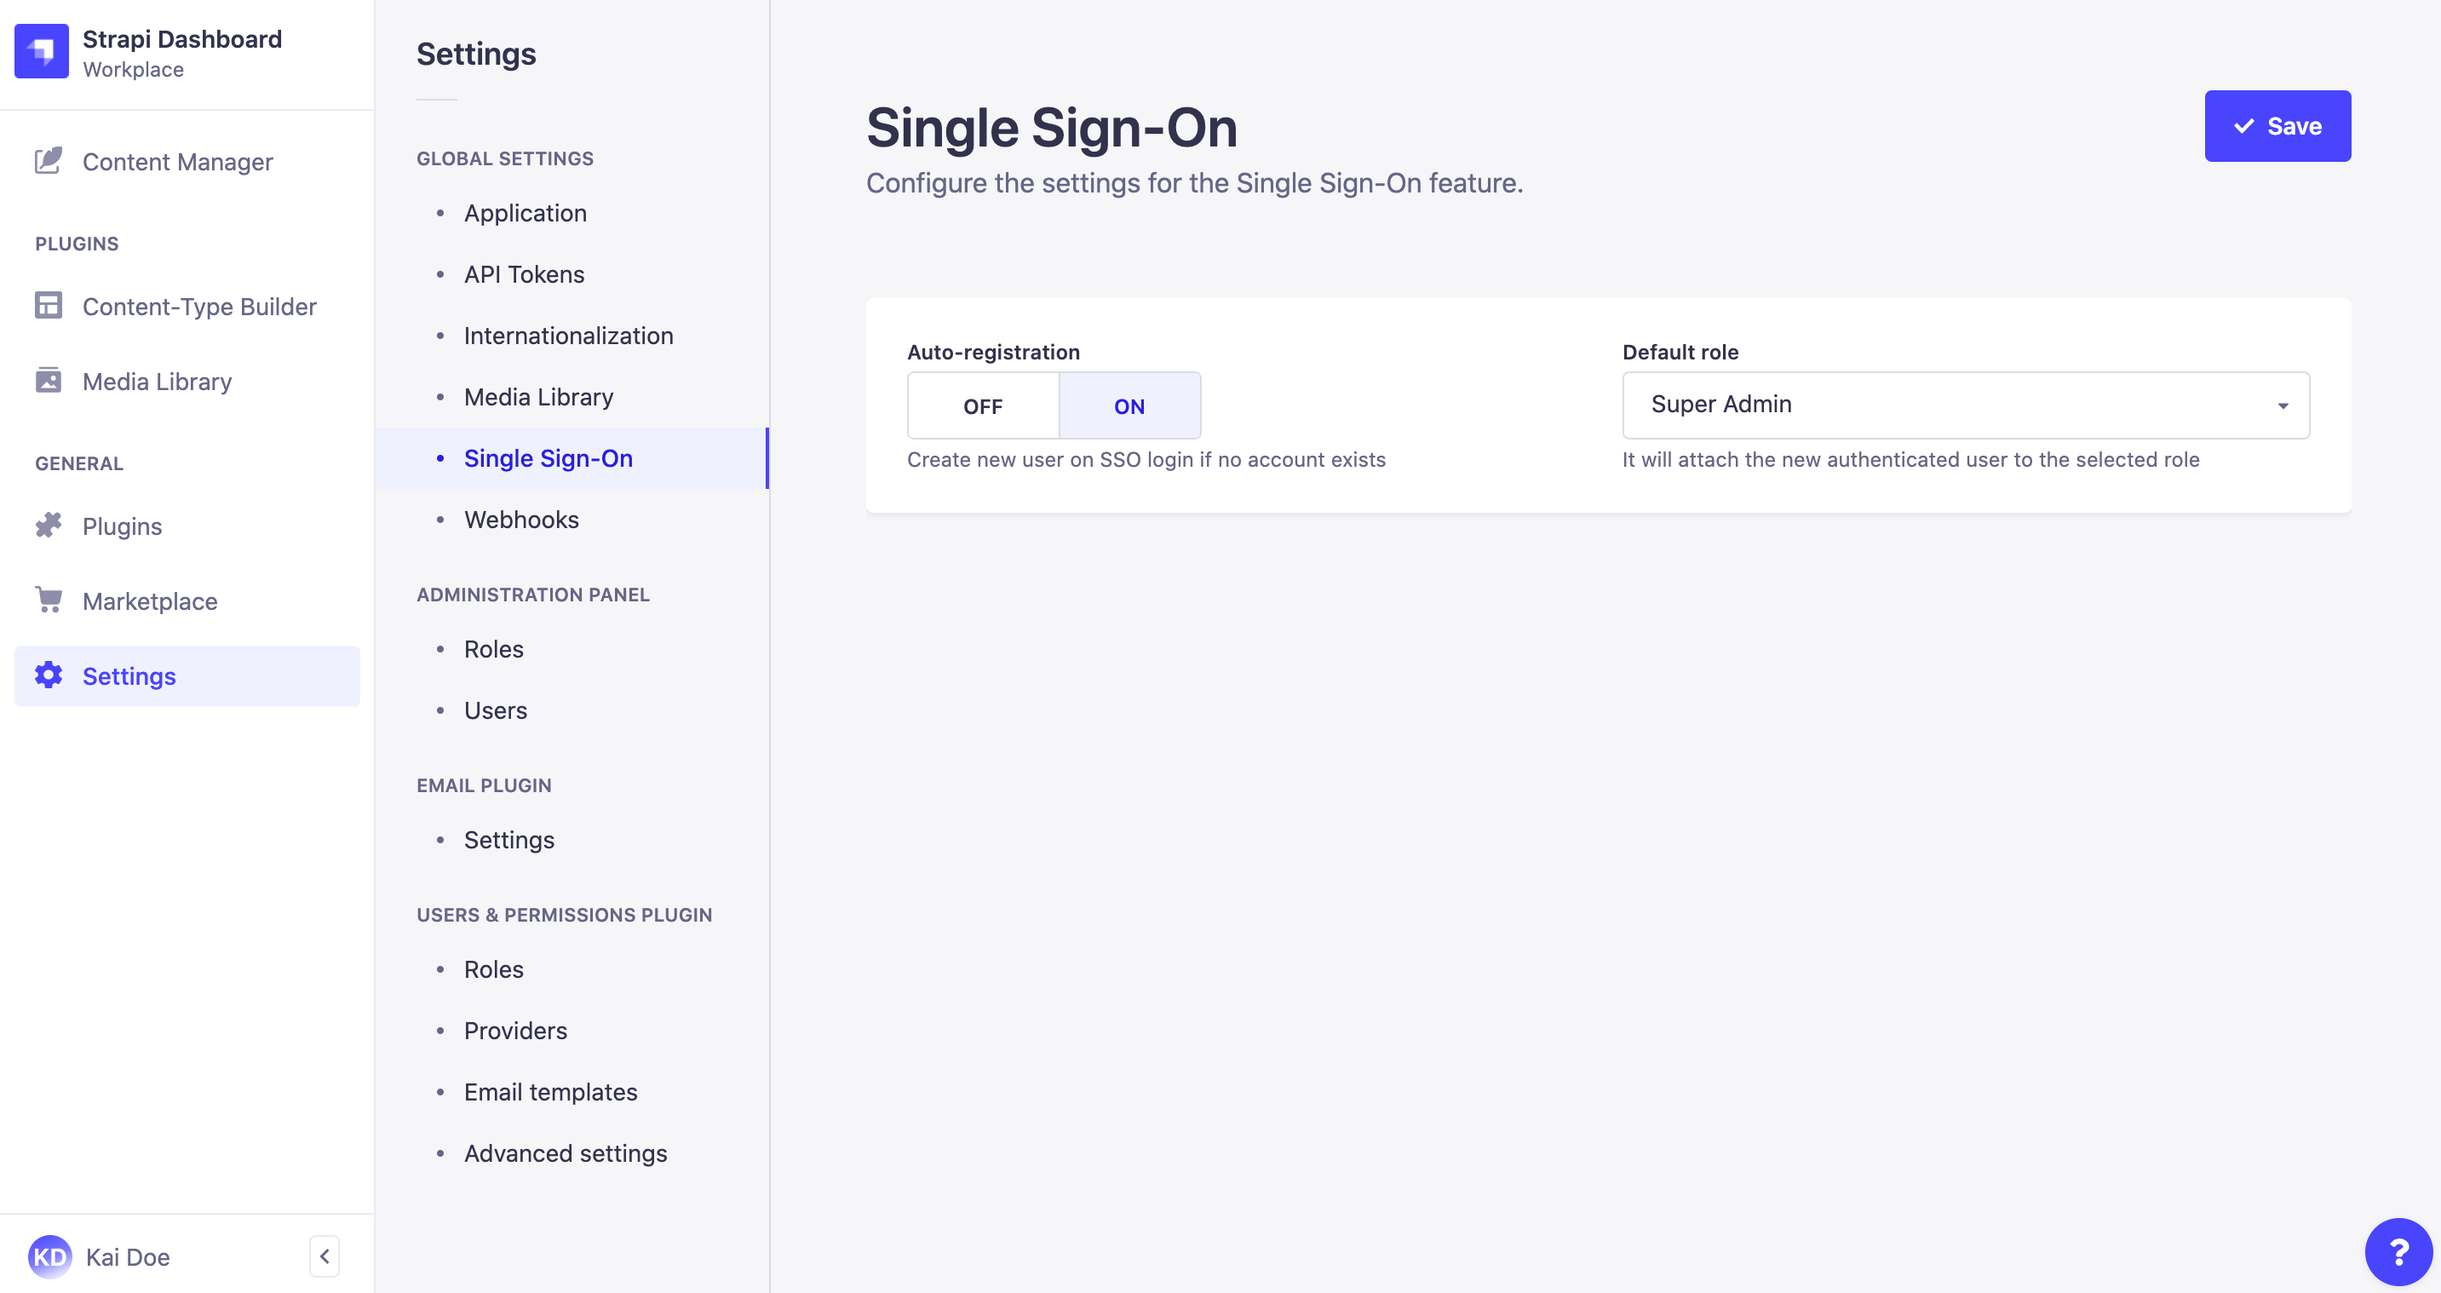
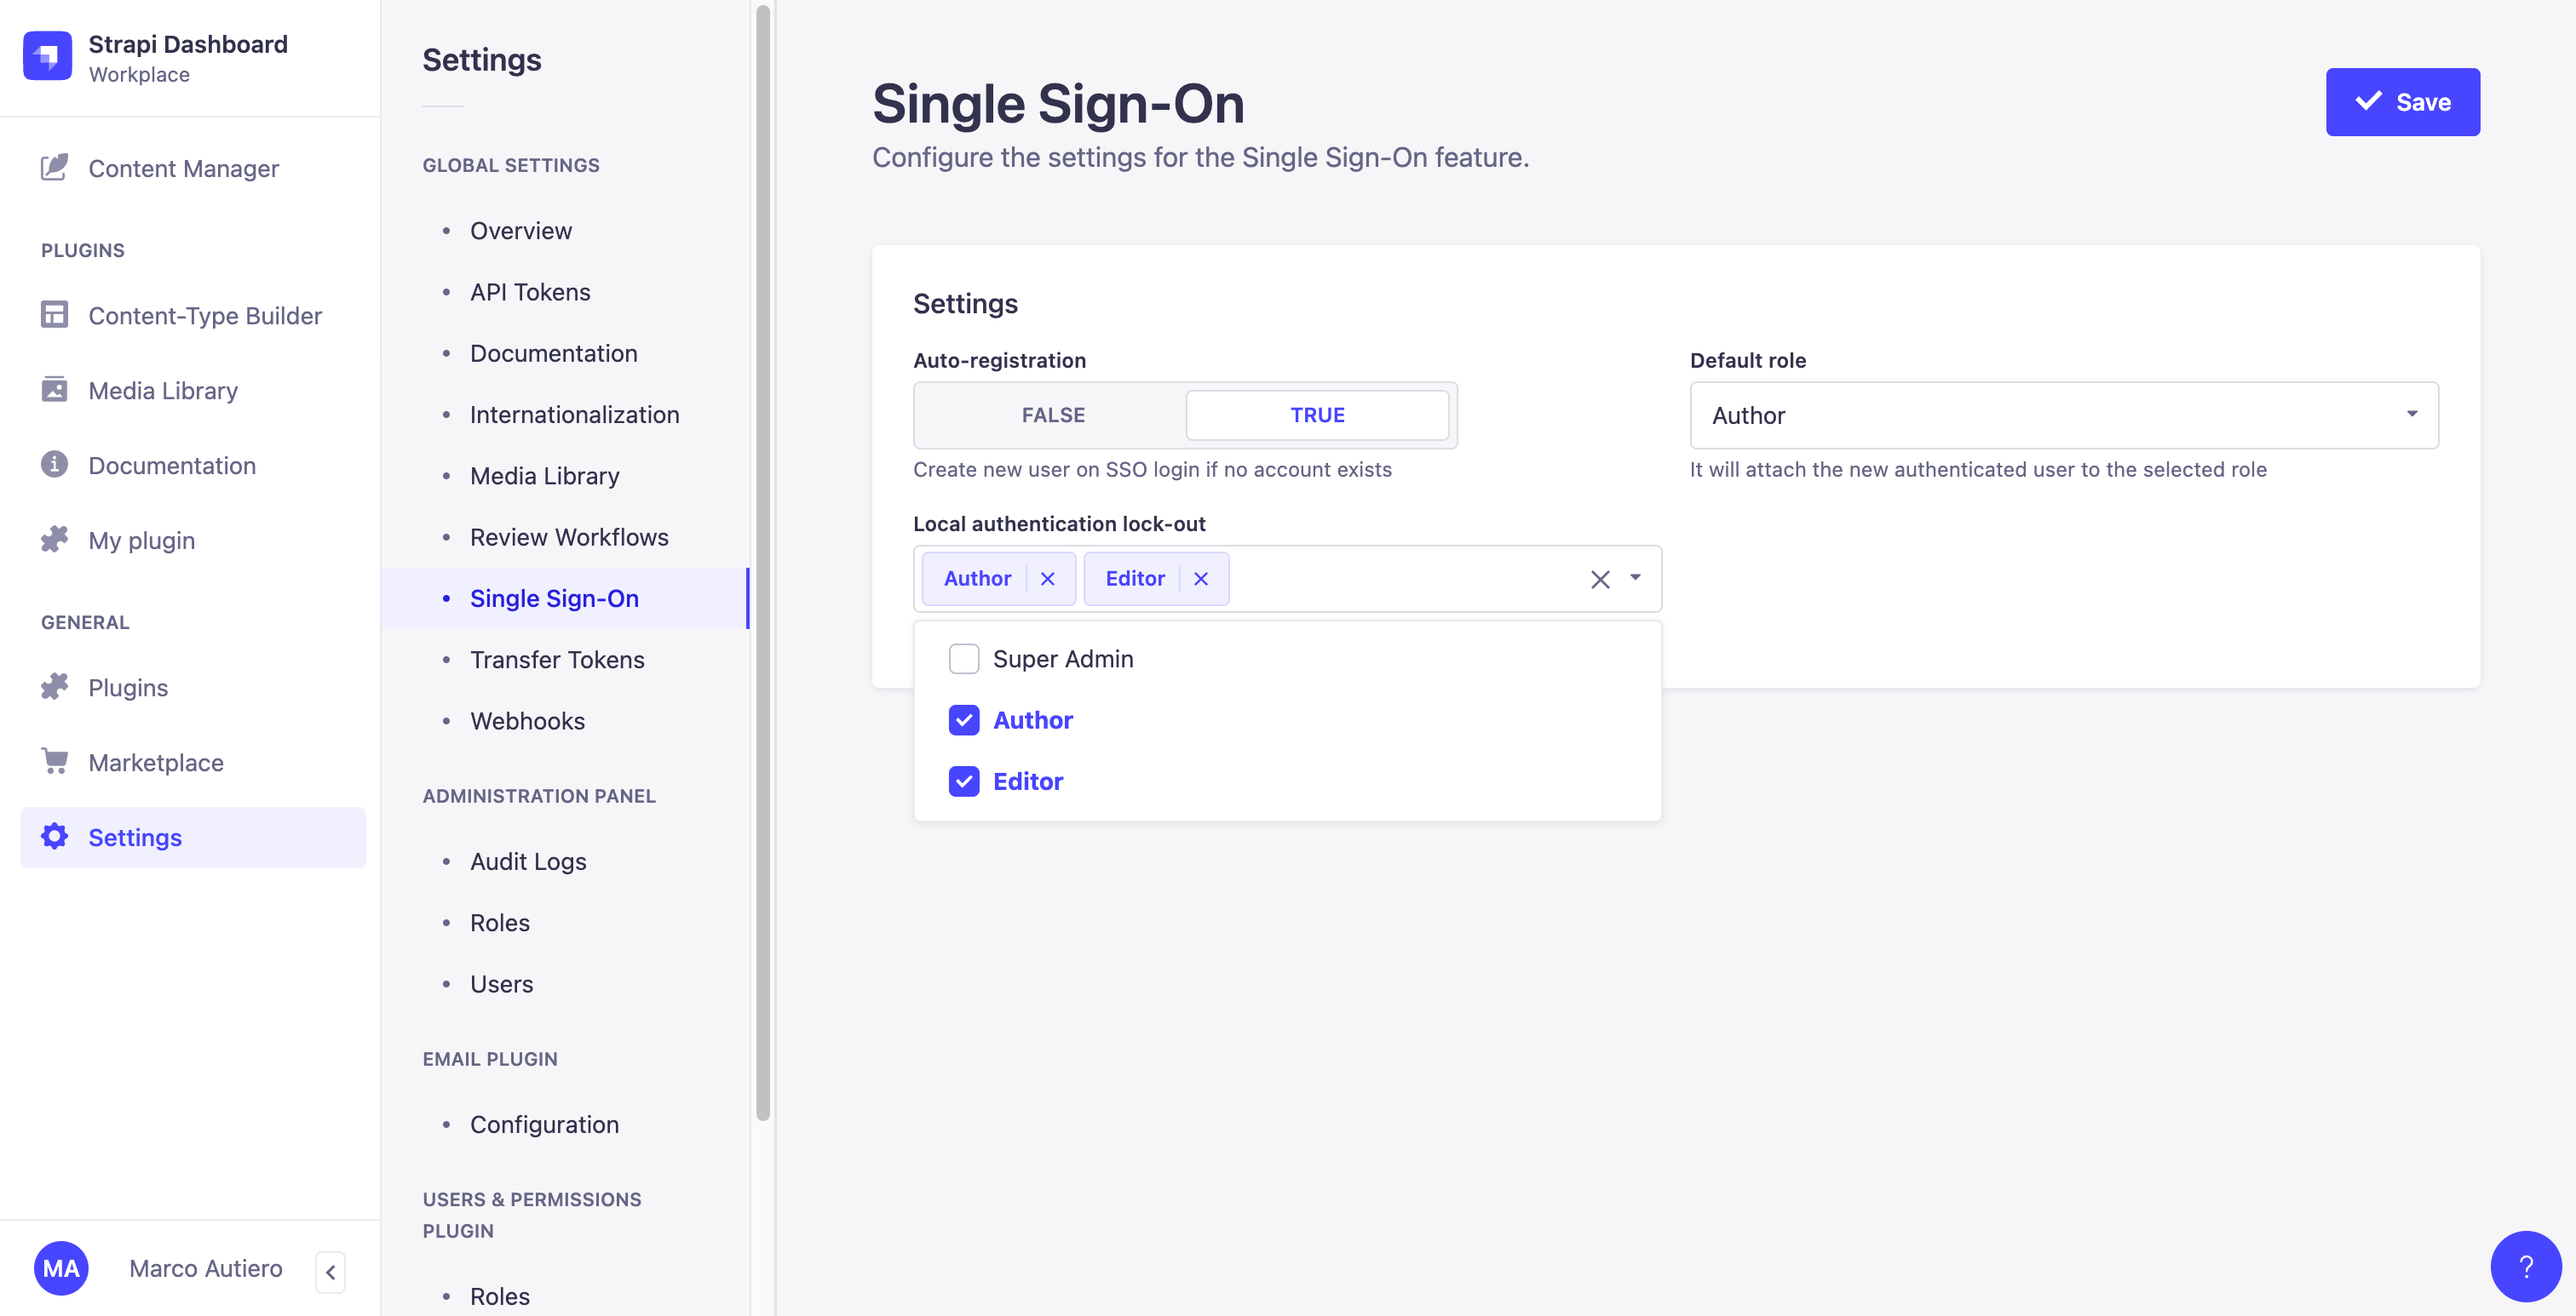
Update user guide for SSO lock-out

diff --git a/docusaurus/docs/user-docs/settings/single-sign-on.md b/docusaurus/docs/user-docs/settings/single-sign-on.md
@@ -16,7 +16,8 @@ To configure the SSO feature settings:
 
 | Setting name      | Instructions      |
 | ----------------- | ---------------------|
-| Auto-registration | Click on **ON** to allow the automatic creation of a new Strapi administrator when an SSO login does not match an existing Strapi administrator account. If this setting is set on **OFF**, new Strapi administrators accounts must be created manually beforehand. |
+| Auto-registration | Click on **True** to allow the automatic creation of a new Strapi administrator when an SSO login does not match an existing Strapi administrator account. If this setting is set on **False**, new Strapi administrators accounts must be created manually beforehand. |
 | Default role      | Choose among the drop-down list the role to attribute by default to auto-registered Strapi administrators through SSO login.           |
+| Local authentication lock-out | Choose among the drop-down list the roles for which the local authentication capabilities are disabled.<br />Users locked out of local authentication will be forced to use SSO to login and will not be able to change or reset their password. |
 
 3. Click the **Save** button.
